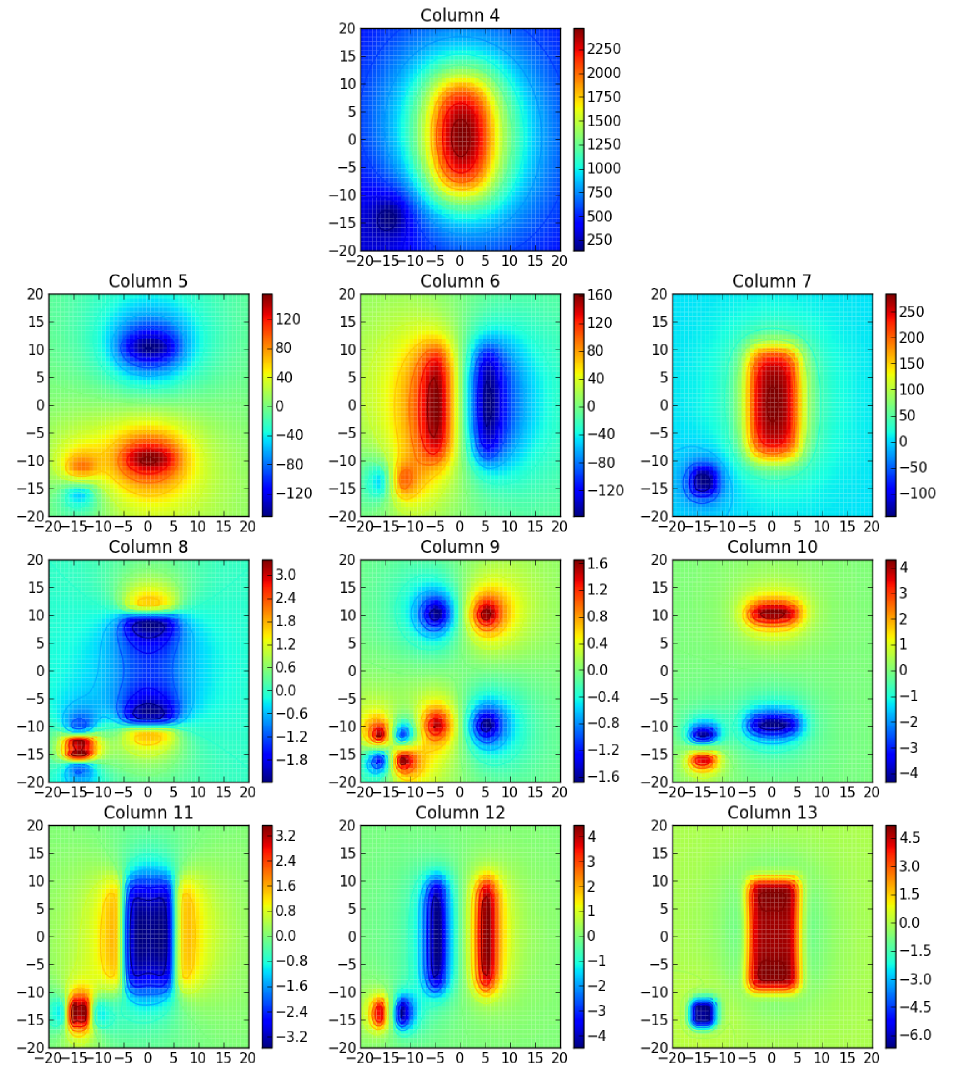
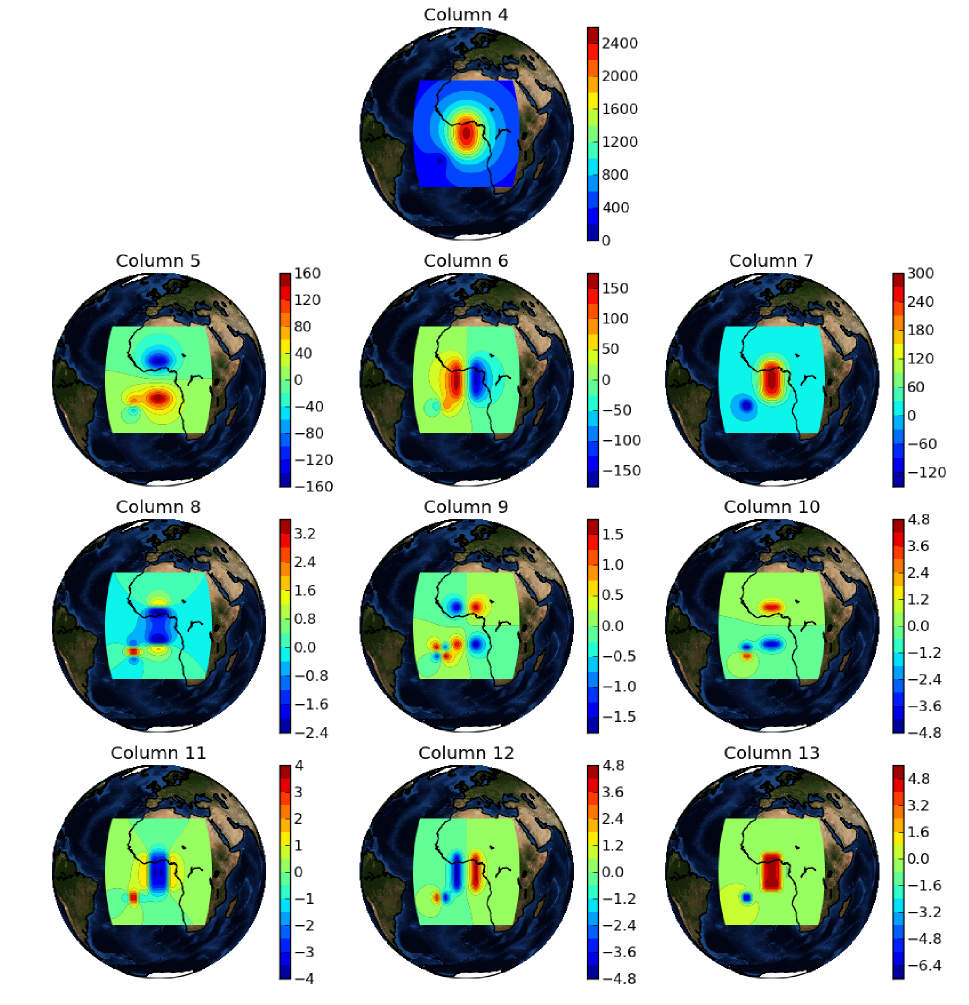
simple_tess recipe now plots with projections. Added text about why it takes longer than the prisms

diff --git a/cookbook/simple_tess/plot.py b/cookbook/simple_tess/plot.py
@@ -3,24 +3,33 @@ Plot the columns of the output files
 """
 import sys
 import pylab
+from mpl_toolkits.basemap import Basemap
+
+# Set up a projection
+bm = Basemap(projection='ortho', lon_0=0, lat_0=0,
+             resolution='l', area_thresh=10000)
 
 data = pylab.loadtxt(sys.argv[1], unpack=True)
 shape = (int(sys.argv[2]), int(sys.argv[3]))
 lon = pylab.reshape(data[0], shape)
 lat = pylab.reshape(data[1], shape)
-xmin, xmax = lon.min(), lon.max()
-ymin, ymax = lat.min(), lat.max()
+glon, glat = bm(lon, lat)
+
 for i, value in enumerate(data[3:]):
     value = pylab.reshape(value, shape)
     pylab.figure(figsize=(4, 3))
     pylab.title("Column %d" % (i + 4))
-    pylab.axis('scaled')
-    pylab.pcolor(lon, lat, value)
+    #bm.drawcoastlines()
+    #bm.fillcontinents(color='coral',lake_color='aqua')
+    #bm.drawmapboundary(fill_color='aqua')
+    #bm.drawmapboundary()
+    #bm.drawparallels(pylab.arange(-90.,120.,30.))
+    #bm.drawmeridians(pylab.arange(0.,420.,60.))
+    bm.bluemarble()
+    #bm.pcolor(glon, glat, value)
+    bm.contourf(glon, glat, value, 15)
     pylab.colorbar()
-    pylab.contour(lon, lat, value, 12, color='k')
-    #pylab.xlabel("Longitude")
-    #pylab.ylabel("Latitude")
-    pylab.xlim(xmin, xmax)
-    pylab.ylim(ymin, ymax)
+    #bm.contour(glon, glat, value, 15, linewidths=1.5)
+    #pylab.colorbar()
     pylab.savefig('column%d.png' % (i + 4))
 pylab.show()

diff --git a/doc/recipes/simple-tess.rst b/doc/recipes/simple-tess.rst
@@ -9,13 +9,36 @@ and gravity gradient tensor due to a simple tesseroid model:
 .. include:: ../../cookbook/simple_tess/simple_tess.sh
     :literal:
 
+Option ``-v`` tells tessgzz
+to print information messages (to stderr).
+Option ``-llog.txt`` tells tessgzz
+to log the information plus debug messages
+to a file called ``log.txt``.
+
 The model file looks like this:
 
 .. include:: ../../cookbook/simple_tess/model.txt
     :literal:
 
+You will notice that this takes
+considerably more time to compute
+than a :ref:`simple 2 prism model <recipe_simple_prism>`.
+This is because *Tesseroids* has to
+recursively divide each tesseroid
+into smaller tesseroids
+in order to maintain the accuracy
+of the :ref:`numerical integration <theory>`.
+If you have a look at ``log.txt``,
+you'll notice that the 2 tesseroids
+were divided approximately 360,000 times
+in total.
+Don't worry,
+this only happened because the tesseroids
+are extremely large.
+
 The result should look like the :ref:`following <simpletess>`
 ("column" means the column of the output file).
+
 
 .. _simpletess:
 
@@ -24,4 +47,9 @@ The result should look like the :ref:`following <simpletess>`
     :width: 600px
     
     Plot of the columns of ``output.txt`` generated by ``simple_tess.sh``.
-    The x and y axis are longitude and latitude, respectively.
+    Orthographic projection
+    (thanks to the Basemap_ toolkit of matplotlib_).
+
+
+.. _Basemap: http://matplotlib.github.com/basemap/index.html
+.. _matplotlib: http://matplotlib.sourceforge.net/index.html

diff --git a/doc/recipes/tess2prism.rst b/doc/recipes/tess2prism.rst
@@ -36,7 +36,8 @@ The result should look like the :ref:`following <tess2prism>`
     :width: 600px
 
     Plot of the columns of ``output.txt`` generated
-    by ``tess2prism.sh``. Orthographic projection
+    by ``tess2prism.sh``.
+    Orthographic projection
     (thanks to the Basemap_ toolkit of matplotlib_).
 
 

diff --git a/doc/recipes/simple-prism.rst b/doc/recipes/simple-prism.rst
@@ -1,3 +1,5 @@
+.. _recipe_simple_prism:
+
 Simple prism model in Cartesian coordinates
 ===========================================
 
